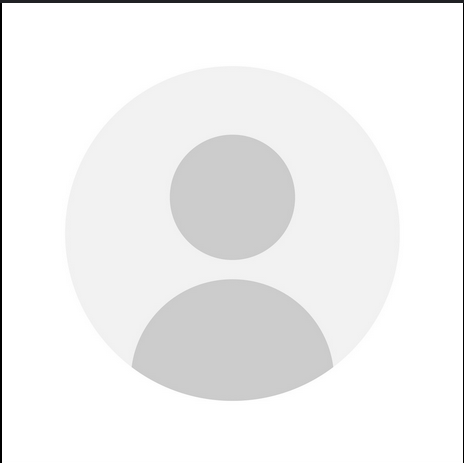
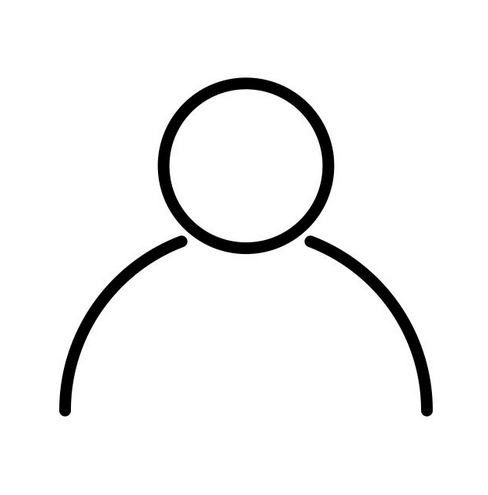
.

Changed region(s): [[0.1207, 0.1512, 0.9052, 0.8467], [0.2716, 0.6048, 0.7241, 0.8769], [0.0, 0.0, 1.0, 1.0]]

diff --git a/src/app/_components/AccountMenu.tsx b/src/app/_components/AccountMenu.tsx
@@ -28,14 +28,14 @@ function AccountMenu() {
       <menu>
         <div
           onClick={showMenu}
-          className="border-gray-100 hover:border-2 bg-primary-lm  md:size-9 sm:size-8 size-7 rounded-full"
+          className="border-gray-100 border-[0.2px]  hover:border-2 bg-primary-lm  md:size-9 sm:size-8 size-7 rounded-full"
         >
           <Image
             src="/mypic.png"
             alt="Profile Pic"
             width={50}
             height={32}
-            className="rounded-full size-full"
+            className="rounded-full object-contain"
           />
         </div>
       </menu>
@@ -44,9 +44,9 @@ function AccountMenu() {
       >
         {accessToken && (
           <header className="flex flex-row items-center gap-x-2">
-            <div className="border-gray-100 hover:border-2 bg-primary-lm  md:size-9 sm:size-7 size-6   rounded-full ">
+            <div className="border-black border-[0.02px] hover:border-2 bg-primary-lm  md:size-9 sm:size-7 size-6 rounded-full ">
               <Image
-                src="/man_pic.webp"
+                src="/mypic.png"
                 alt="Profile Pic"
                 width={50}
                 height={32}

diff --git a/src/app/_components/ProfileDetail.tsx b/src/app/_components/ProfileDetail.tsx
@@ -36,13 +36,13 @@ function ProfileDetail({
             <BsCameraFill className="size-6" />
             <p className="text-body-4-medium">Profile picture</p>
           </span>
-          <span>
+          <span className="size-16 bg-pure-white overflow-hidden rounded-full">
             <Image
               src="/mypic.png"
               alt="Profile Pic"
               height={100}
               width={100}
-              className="size-20 rounded-full border-2 border-gray-300 p-2"
+              className="size-full rounded-full border-2 border-gray-100 p-2"
             />
           </span>
         </section>

diff --git a/src/app/_components/CategoryItems.tsx b/src/app/_components/CategoryItems.tsx
@@ -46,9 +46,11 @@ function CategoryItems({ categoryName, categoryId }: categoryItemsProps) {
   return (
     <>
       <section className="py-10">
-        <h2 className="text-text-1-medium text-black border-b-2 w-fit p-2 mb-10 ml-[40%]">
-          {categoryName}
-        </h2>
+        <div className="mb-10 grid place-content-center">
+          <h2 className="text-text-1-medium border-b-2 pb-2 w-fit text-black">
+            {categoryName}
+          </h2>
+        </div>
 
         <article
           ref={scrollContainerRef}
